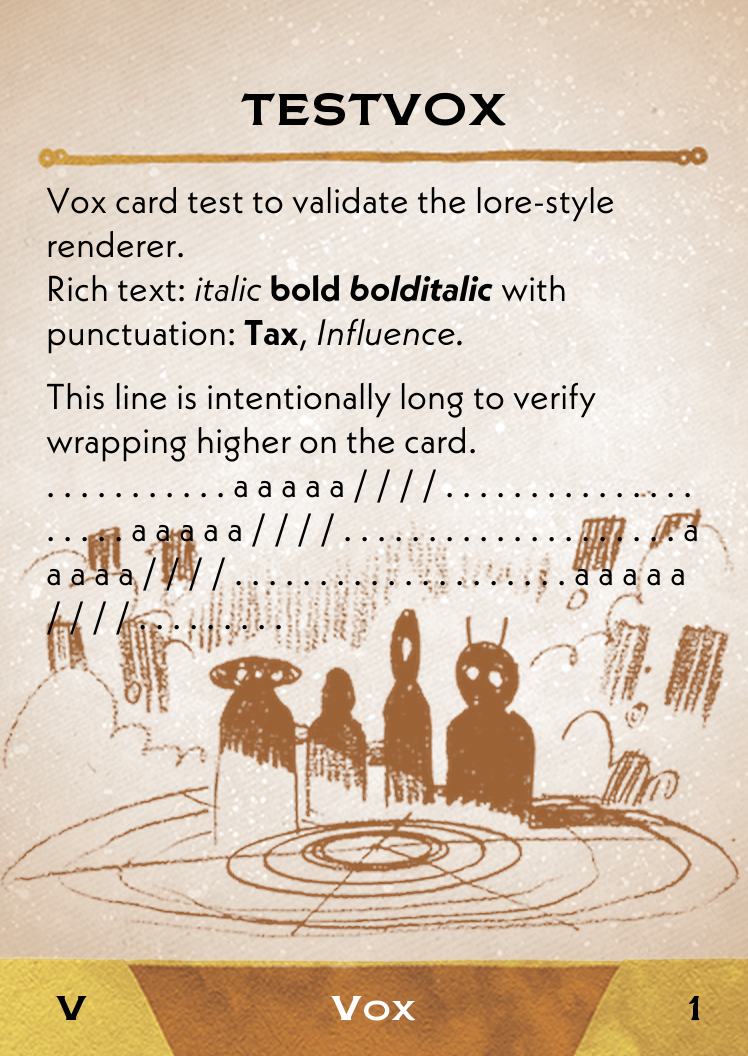
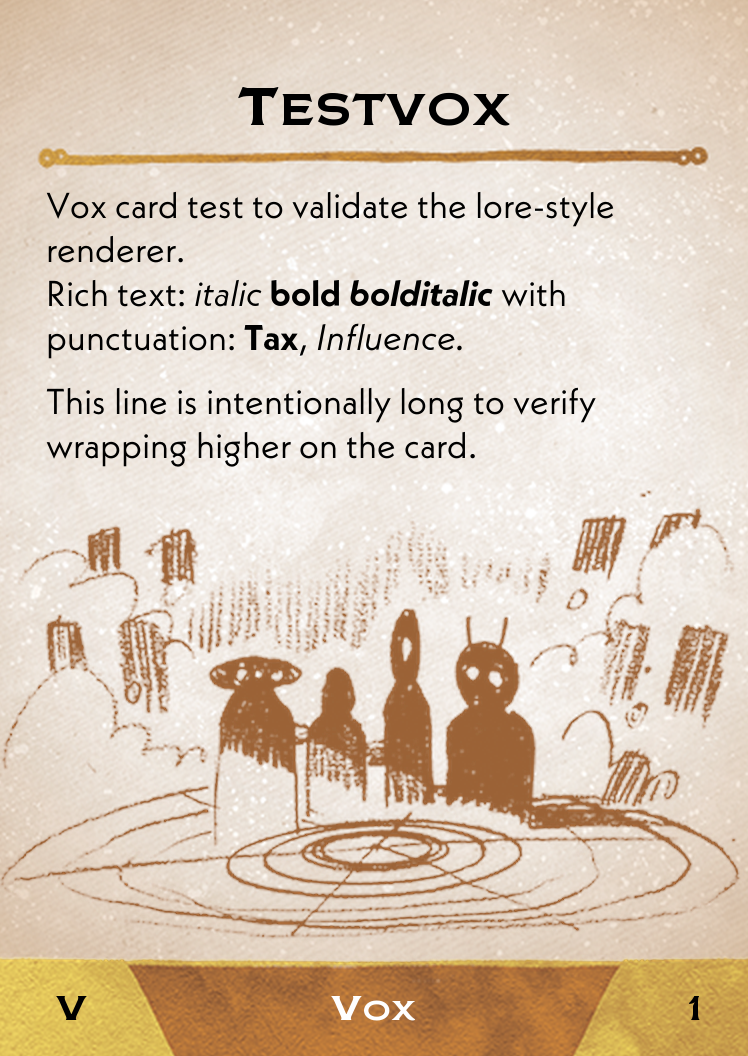
voxcard

diff --git a/scripts/voxCardsFormatted.py b/scripts/voxCardsFormatted.py
@@ -1,14 +1,13 @@
 vox_cards = [
     {
         "name": "testvox",  # looks for cardAssets/voxImages/testvox.png
-        "title": "testvox",
+        "title": "Testvox",
         "title_font_size": 25,
         "body": (
             "Vox card test to validate the lore-style renderer.\n"
             "Rich text: *italic* **bold** ***bolditalic*** with punctuation: **Tax**, *Influence.*\n"
             "\n"
             "This line is intentionally long to verify wrapping higher on the card.\n"
-            ". . . . . . . . . . . a a a a a / / / / . . . . . . . . . . . . . . . . . . . . a a a a a / / / / . . . . . . . . . . . . . . . . . . . . a a a a a / / / / . . . . . . . . . . . . . . . . . . . . a a a a a / / / / . . . . . . . . ."
         ),
         "footer_left": "V",
         "footer": "Vox",
